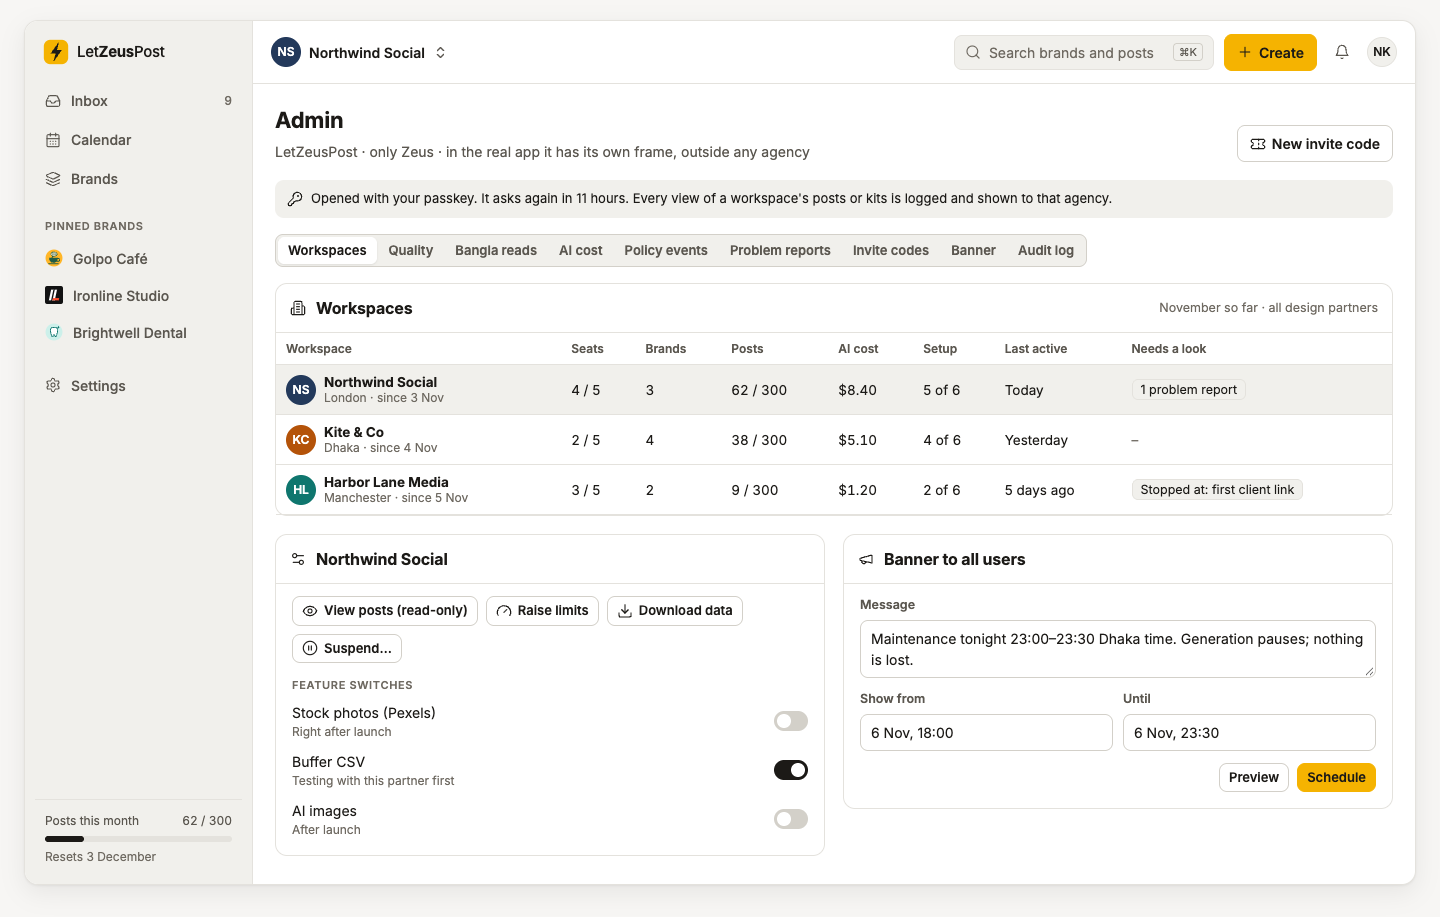
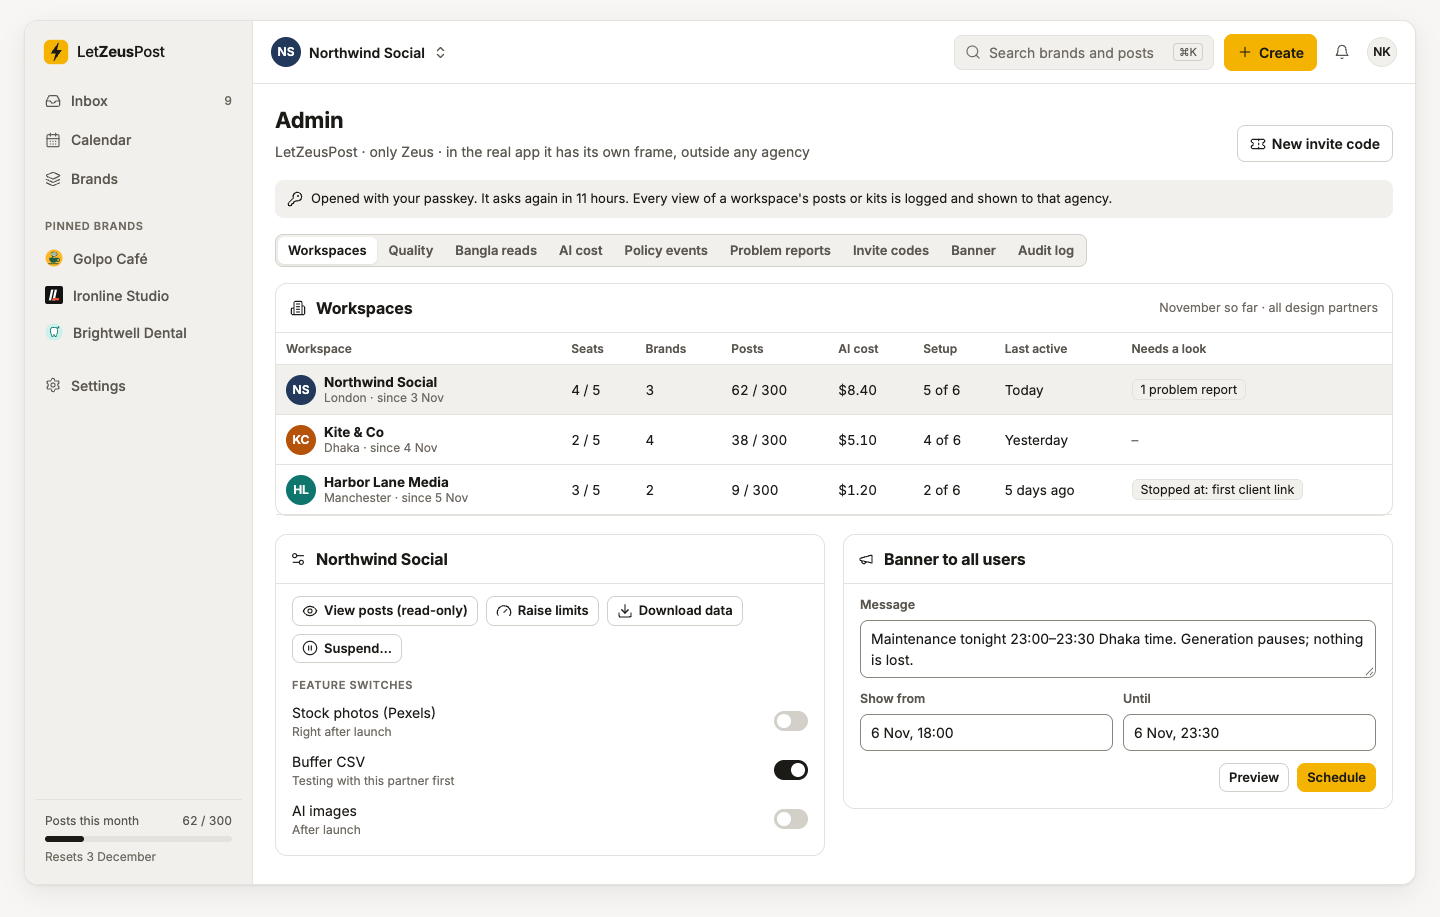
docs(design): screenshots with the new input border, the review page at 390 px (#70)
Retaken from the source with the darker input border (Zeus, 2026-11-08). Adds the client review page at phone
width, full length (Iris, round 1). The README lists the changes since v1.13 with links to Zeus's decisions, and the
editor's clipped tab row for its build task.

diff --git a/docs/design/mockups/README.md b/docs/design/mockups/README.md
@@ -13,11 +13,23 @@ add screenshots of each screen next to it.
 
 `v1/screens/` holds every screen in the mockup's screen list, light and dark: `<nn>-<screen>-<theme>.png`, numbered
 in the list's order. They were taken on 2026-11-08 (#70) with Playwright in Chrome at 1440 × 900, full page, reduced
-motion, with the mockup's own bar (screen picker, theme switch) hidden.
+motion, with the mockup's own bar (screen picker, theme switch) hidden. `12-review-390-light.png` is the client
+review page at phone width (390 px), full length, with the phone's inner scroll opened up.
 
-The source has one change since approval: the faint grey (`--faint`) is darkened so it passes WCAG AA as text (light
-`#8E8A82` → `#6F6A62`, dark `#847F76` → `#8C877E`; Zeus, 2026-11-08, #70). The published page still shows the old
-grey until it's republished; the screenshots and `DESIGN.md` use the new one.
+## Changes since v1.13 was approved
+
+Zeus approved each of these on 2026-11-08 (#70). They are in the source, the screenshots and `DESIGN.md`. The
+published page still shows v1.13 as approved until it's republished from this source:
+- **Faint grey** (`--faint`) darkened so it passes WCAG AA as text: light `#8E8A82` → `#6F6A62`, dark `#847F76` →
+  `#8C877E` ([decision](https://github.com/picasso-canvas/letzeuspost/issues/70#issuecomment-6722863139)).
+- **Input border** (new `--input`, on text fields and selects) at 3:1 for WCAG 1.4.11: light `#8A857D`, dark
+  `#706B63`, where they used `--border-strong` (`#D3D0C9` / `#3E3A33`, 1.5:1)
+  ([decision](https://github.com/picasso-canvas/letzeuspost/issues/70#issuecomment-6723593363)).
+- **The client review page in dark** follows the phone's setting, with the app's tokens. The mockup draws the phone
+  in light only, so it has no dark reference; Iris checks the dark version when that page is built (same decision).
+
+Known for later: the post editor's tab row cuts its last tab ("Comments") at 1440 px (`10-editor-*.png`). The
+editor's build task shortens the labels or lets the row scroll; it doesn't shrink the type (§01).
 
 These are the approved design for reference and for Iris's review. They aren't visual-test baselines: those are
 rendered in CI and live in `tests/visual/` (§21, Q11).
